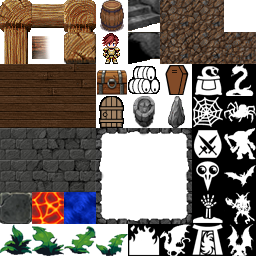
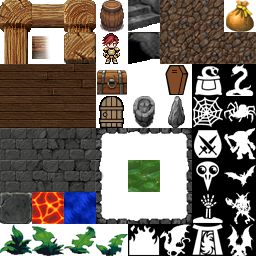
added slime to the tileset

Changed region(s): [[0.5, 0.625, 0.625, 0.75], [0.5, 0.25, 0.625, 0.375], [0.875, 0.0, 1.0, 0.125]]

diff --git a/src/tile-image.hpp b/src/tile-image.hpp
@@ -36,6 +36,7 @@ namespace castlecrawl
         Plant4,
         Lava,
         Water,
+        Slime,
         WallBlock,
         WallTopLeft,
         WallTop,
@@ -84,6 +85,7 @@ namespace castlecrawl
         {
             case TileImage::Lava:           { return 'l'; }
             case TileImage::Water:          { return 'w'; }
+            case TileImage::Slime:          { return 'a'; }
             case TileImage::WallBlock:      { return 'B'; }
             case TileImage::WallTopLeft:    { return 'C'; }
             case TileImage::WallTop:        { return 'T'; }
@@ -181,6 +183,7 @@ namespace castlecrawl
             case ';': return TileImage::Stone6;
             case 'l': return TileImage::Lava;
             case 'w': return TileImage::Water;
+            case 'a': return TileImage::Slime;
             case '[': return TileImage::Dirt1;
             case ']': return TileImage::Dirt2;
             case '{': return TileImage::Dirt3;
@@ -254,6 +257,7 @@ namespace castlecrawl
             case TileImage::Rock:            return sf::IntRect(0, 192,32,32);
             case TileImage::Lava:            return sf::IntRect(32,192,32,32);
             case TileImage::Water:           return sf::IntRect(64,192,32,32);
+            case TileImage::Slime:           return sf::IntRect(128,160,32,32);
             //
             case TileImage::Dirt1:           return sf::IntRect(160,0,32,32);
             case TileImage::Dirt2:           return sf::IntRect(192,0,32,32);

diff --git a/src/map.cpp b/src/map.cpp
@@ -352,7 +352,7 @@ namespace castlecrawl
             return;
         }
 
-        auto notLiq = [](const char ch) { return ((ch != 'l') && (ch != 'w')); };
+        auto notLiq = [](const char ch) { return ((ch != 'l') && (ch != 'w') && (ch != 'a')); };
 
         auto validNotLiquid = [&](const char ch, const MapPos_t & pos) {
             return (notLiq(ch) && isPosValid(pos));
@@ -489,6 +489,10 @@ namespace castlecrawl
                 else if (ch == tileImageChar(TileImage::Lava))
                 {
                     context.board.add(Piece(context, Pieces::Lava, ch, pos));
+                }
+                else if (ch == tileImageChar(TileImage::Slime))
+                {
+                    context.board.add(Piece(context, Pieces::Slime, ch, pos));
                 }
                 else if (ch == tileImageChar(TileImage::StairUp))
                 {

diff --git a/src/pieces.hpp b/src/pieces.hpp
@@ -37,6 +37,7 @@ namespace castlecrawl
         Chest,
         Lava,
         Water,
+        Slime,
         StairsUp,
         StairsDown,
         Plant,
@@ -78,6 +79,7 @@ namespace castlecrawl
             case Pieces::Chest:         { return true;  }
             case Pieces::Lava:          { return true;  }
             case Pieces::Water:         { return true;  }
+            case Pieces::Slime:         { return true;  }
             case Pieces::StairsUp:      { return false; }
             case Pieces::StairsDown:    { return false; }
             case Pieces::Plant:         { return true;  }

diff --git a/src/state-edit.cpp b/src/state-edit.cpp
@@ -149,6 +149,7 @@ namespace castlecrawl
         else if (sf::Keyboard::C == event.key.code)     { m_editor.setCell(context, 'c'); }
         else if (sf::Keyboard::K == event.key.code)     { m_editor.setCell(context, 'k'); }
         else if (sf::Keyboard::R == event.key.code)     { m_editor.setCell(context, 'r'); }
+        else if (sf::Keyboard::A == event.key.code)     { m_editor.setCell(context, 'a'); }
         // clang-format on
 
         if ((sf::Keyboard::Period == event.key.code) || (sf::Keyboard::Delete == event.key.code) ||

diff --git a/src/maps.cpp b/src/maps.cpp
@@ -287,7 +287,9 @@ namespace castlecrawl
 
         const auto iter = m_maps.find(m_currentMapName);
 
-        M_CHECK((iter != std::end(m_maps)), "Map '" << m_currentMapName << "' not found!  (from map='" << fromMapName << "')");
+        M_CHECK(
+            (iter != std::end(m_maps)),
+            "Map '" << m_currentMapName << "' not found!  (from map='" << fromMapName << "')");
 
         M_CHECK(
             (!iter->second.empty()),
